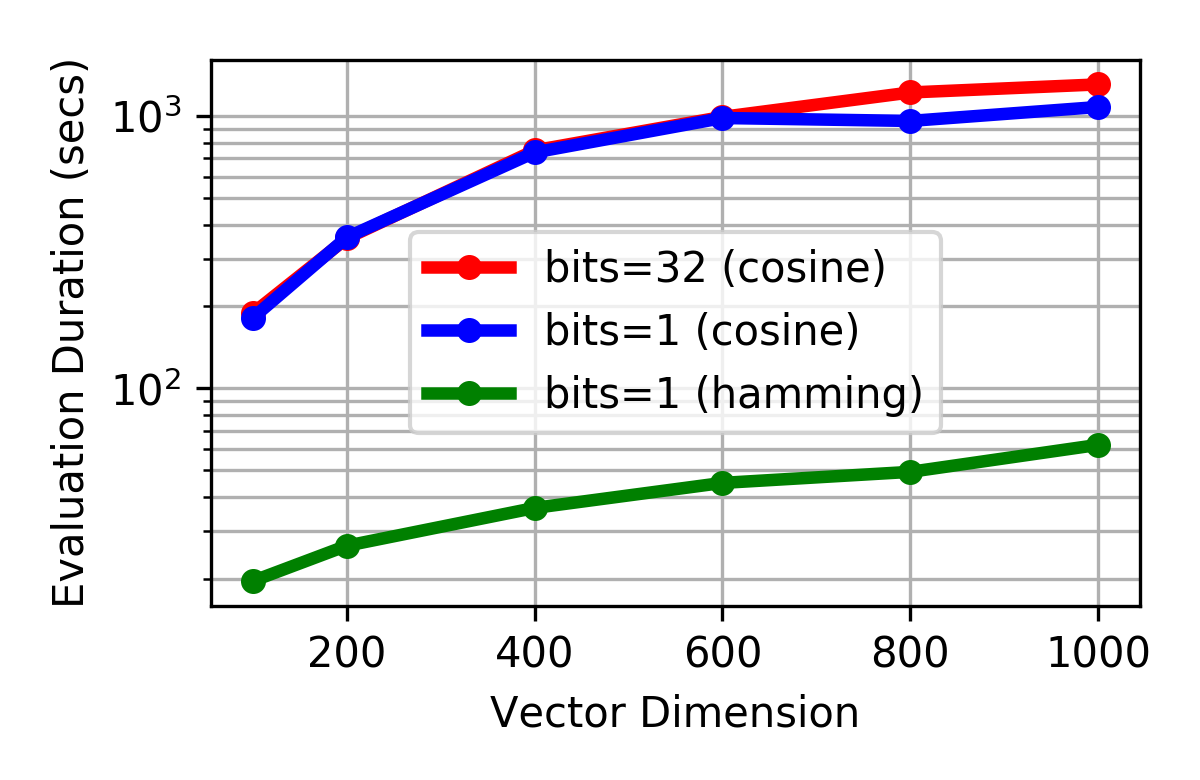
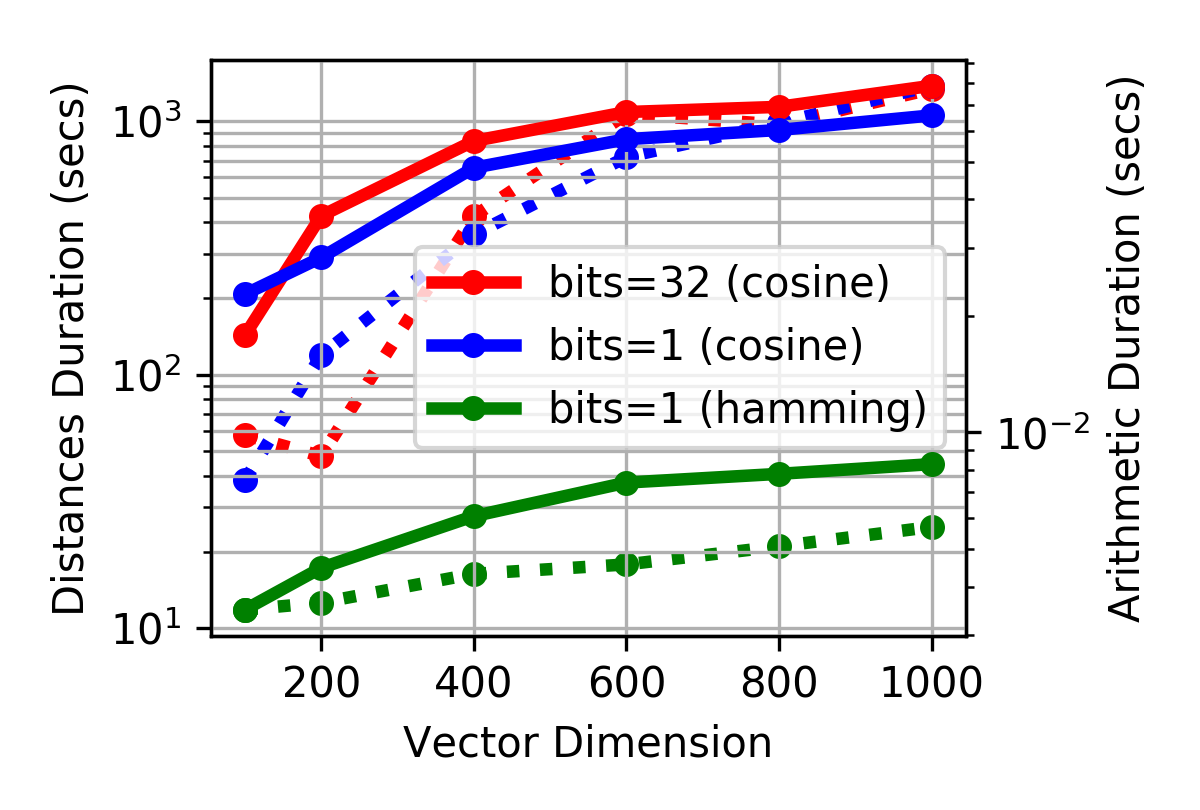
Measure duration of computing distances and doing arithmetic separately

Changed region(s): [[0.0308, 0.0615, 0.9558, 0.8615], [0.3392, 0.8923, 0.7092, 0.9538]]

diff --git a/README.md b/README.md
@@ -8,19 +8,19 @@ This repository contains the [evaluation](evaluation.ipynb) of the
    <a href="figures/accuracy-iter.pdf">
      <img src="figures/accuracy-iter.png"
           width="290"
-          alt="Training accuracy and loss (dashed line) vs epochs trained (vector dimension = 400) on 100MB of Wikipedia. Trends show that Word2Vec is prone to overfitting with many epochs of training."
-          title="Training accuracy and loss (dashed line) vs epochs trained (vector dimension = 400) on 100MB of Wikipedia. Trends show that Word2Vec is prone to overfitting with many epochs of training." />
+          alt="Training accuracy (solid line) and loss (dashed line) vs epochs trained (vector dimension = 400) on 100MB of Wikipedia. Trends show that Word2Vec is prone to overfitting with many epochs of training."
+          title="Training accuracy (solid line) and loss (dashed line) vs epochs trained (vector dimension = 400) on 100MB of Wikipedia. Trends show that Word2Vec is prone to overfitting with many epochs of training." />
    </a>
    <a href="figures/accuracy-size.pdf">
      <img src="figures/accuracy-size.png"
           width="290"
-          alt="Training accuracy and loss (dashed line) vs dimension (epochs trained = 10) on 100MB of Wikipedia. Trends show that overfitting may occur with larger vector dimensions."
-          title="Training accuracy and loss (dashed line) vs dimension (epochs trained = 10) on 100MB of Wikipedia. Trends show that overfitting may occur with larger vector dimensions." />
+          alt="Training accuracy (solid line) and loss (dashed line) vs dimension (epochs trained = 10) on 100MB of Wikipedia. Trends show that overfitting may occur with larger vector dimensions."
+          title="Training accuracy (solid line) and loss (dashed line) vs dimension (epochs trained = 10) on 100MB of Wikipedia. Trends show that overfitting may occur with larger vector dimensions." />
    </a>
    <a href="figures/speed-size.pdf">
      <img src="figures/speed-size.png"
           width="290"
-          title="Duration of the Google analogy task evaluation. Using bitwise vector operations and Hamming distance results in up to 16× speed increase compared to float vectors and cosine similarity." />
+          title="Duration of computing vector distances (solid line) and performing vector arithmetic (dashed line) in the evaluation of the Google analogy task. Using bitwise vector operations and Hamming distance results in up to 16× speed increase compared to float vectors and cosine similarity." />
    </a>
 </p>
 
